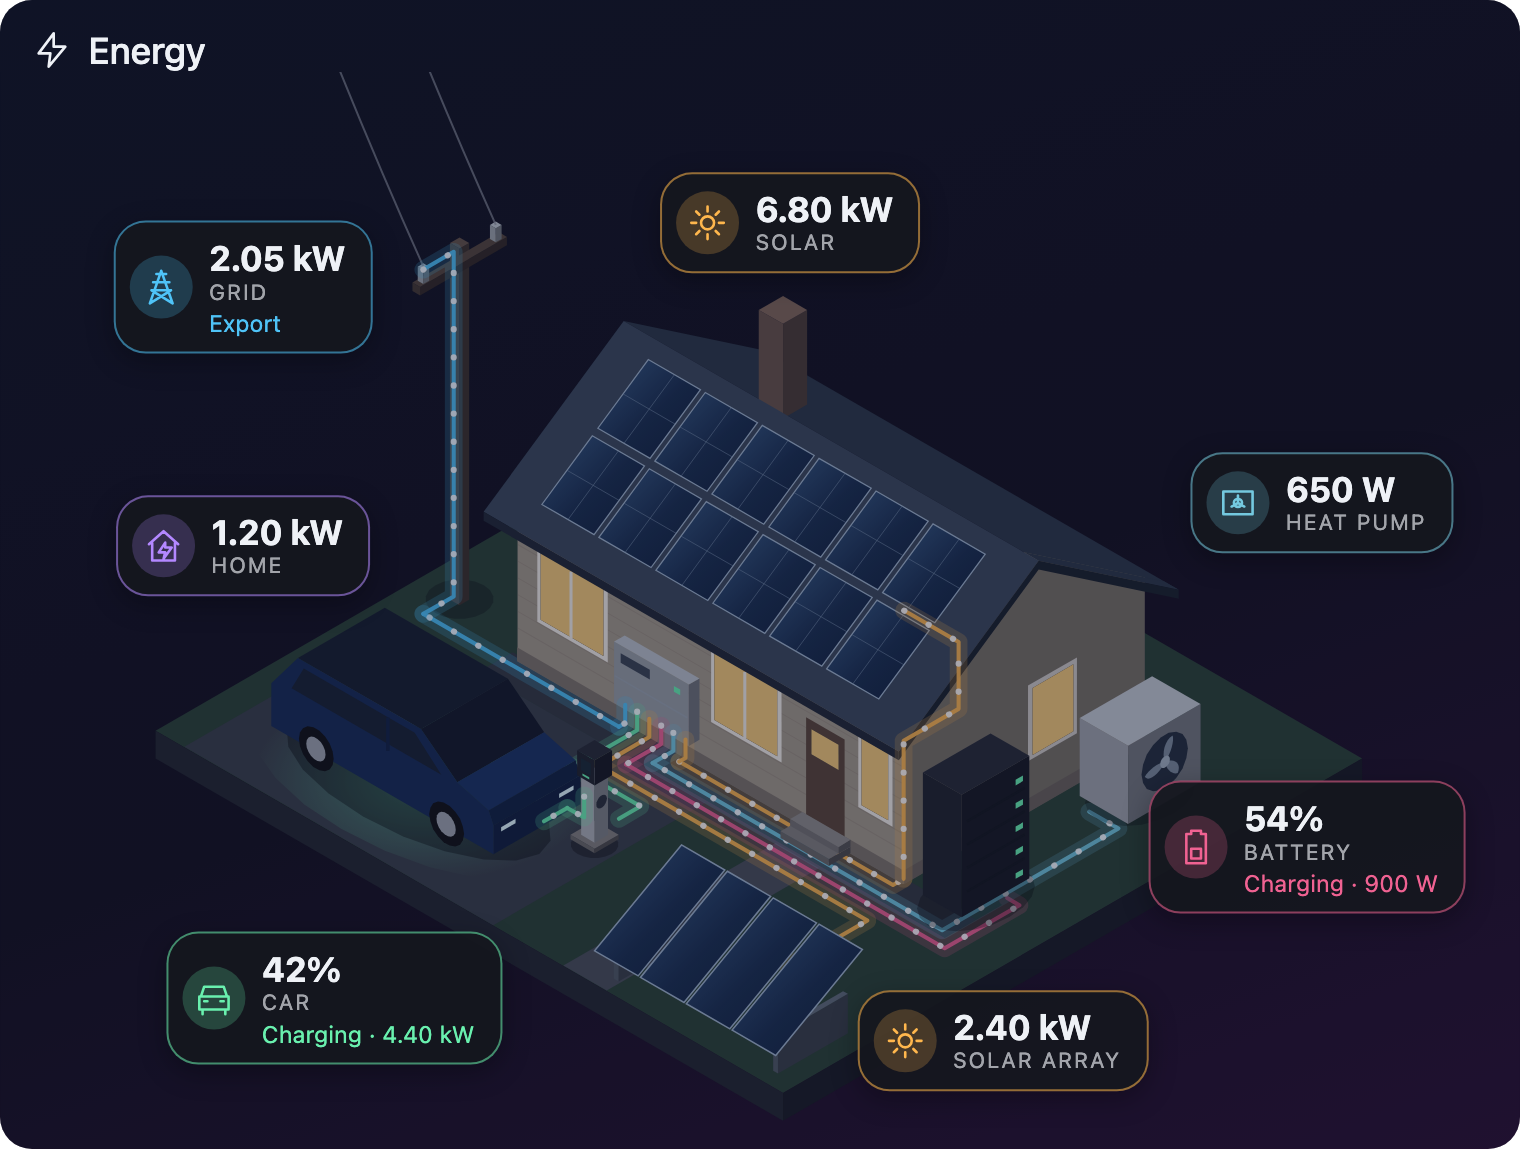
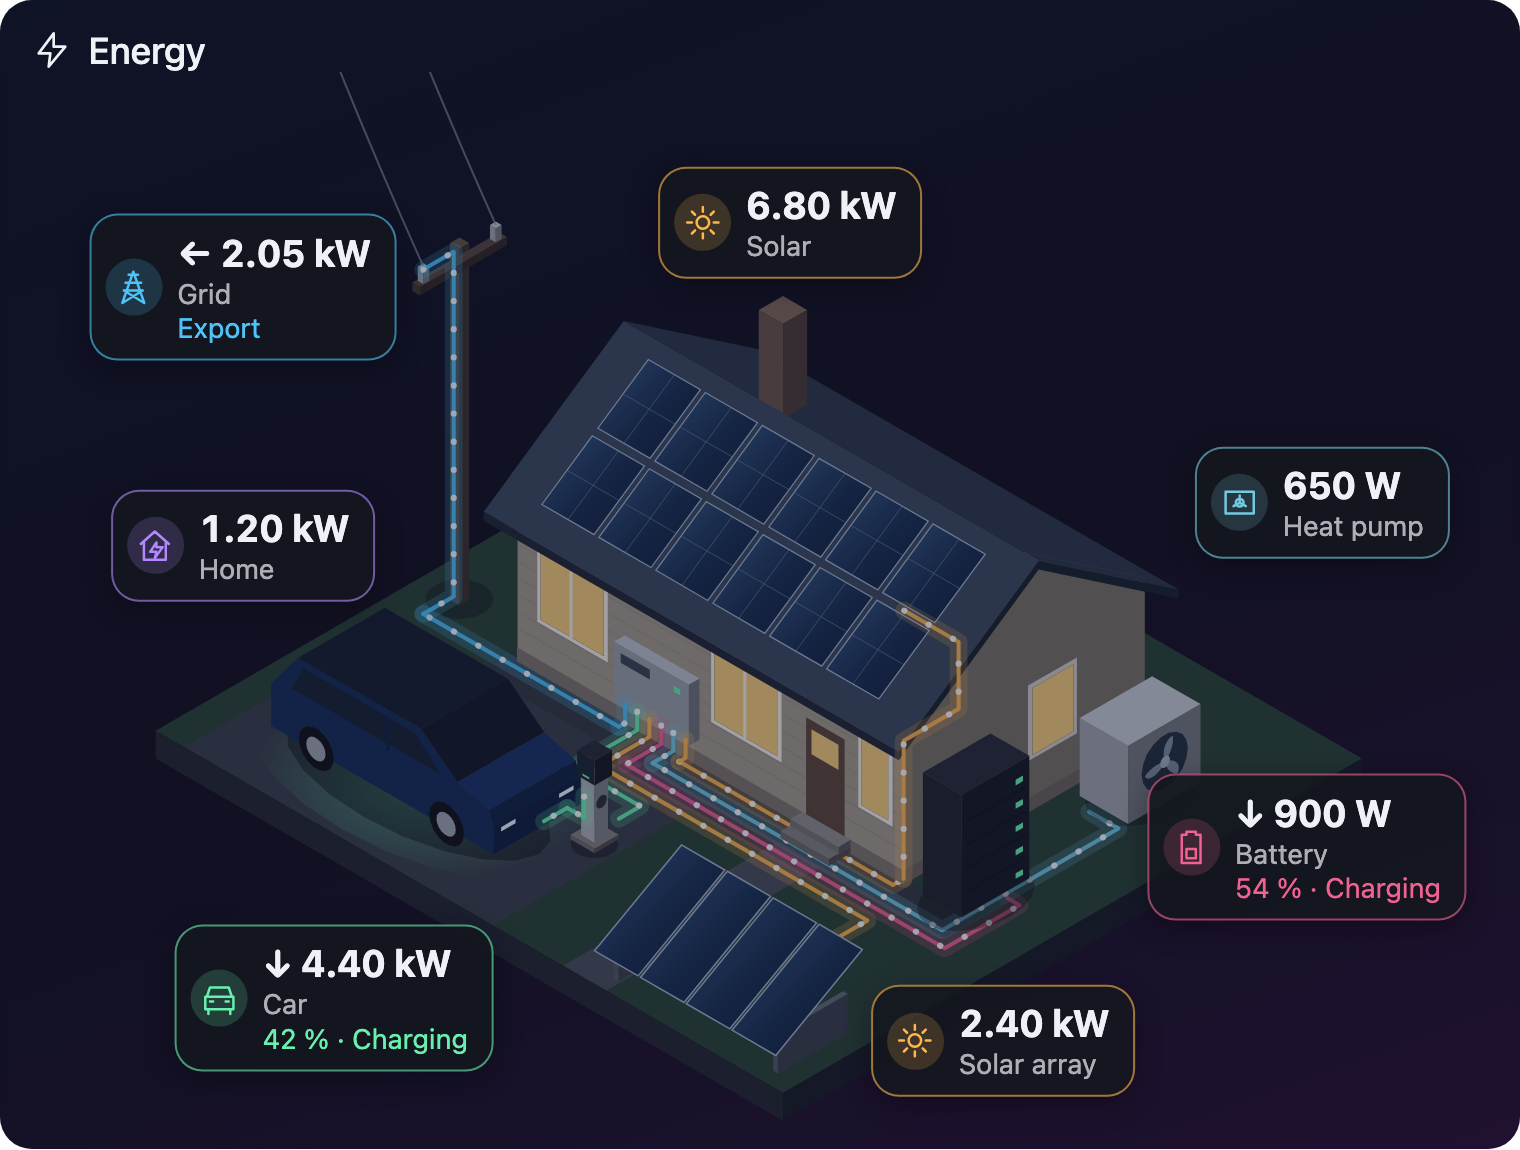
Readable badges: power first, larger text, tiles on narrow cards
- The big number is always power with a direction arrow
  (grid → import / ← export, storage ↓ charging / ↑ discharging);
  battery and car levels move to the second line
- Minimum text sizes (values ≥ 15 px, labels ≥ 11 px), no tiny all-caps labels
- Cards narrower than 500 px show the readings as tiles below the picture
- Lighter badges: coloured border only while active, no pulsing ring
- Version 0.1.0-beta.2

diff --git a/energy-house-card.js b/energy-house-card.js
@@ -4,7 +4,7 @@
  * The scene is rendered once per configuration; sensor updates only touch text, classes and attributes.
  */
 (() => {
-const VERSION = "0.1.0-beta";
+const VERSION = "0.1.0-beta.2";
 const escapeHTML = (value) => String(value).replace(/[&<>"']/g, (c) => ({
   "&": "&amp;", "<": "&lt;", ">": "&gt;", '"': "&quot;", "'": "&#39;",
 })[c]);
@@ -292,18 +292,23 @@ for (const cable of CABLES) {
   });
 }
 
-// Badges: fixed positions in % of the stage (left, top).
+// Badges: fixed positions in % of the picture (left, top) on wide cards; on narrow cards they
+// form a row of tiles below the picture in this order (sources first, then consumers).
 const BADGES = [
-  { id: "grid", label: "Grid", icon: "mdi:transmission-tower", color: COLORS.grid, pos: [16, 20], power: "grid" },
   { id: "solar", label: "Solar", icon: "mdi:solar-power-variant", color: COLORS.solar, pos: [52, 14], power: "solar" },
+  { id: "solar_ground", label: "Solar array", icon: "mdi:solar-power-variant", color: COLORS.solar, pos: [66, 90], power: "solar_ground" },
+  { id: "grid", label: "Grid", icon: "mdi:transmission-tower", color: COLORS.grid, pos: [16, 20], power: "grid" },
+  { id: "battery", label: "Battery", icon: "mdi:battery", color: COLORS.battery, pos: [86, 72], power: "battery_power", soc: "battery_soc" },
   { id: "home", label: "Home", icon: "mdi:home-lightning-bolt", color: COLORS.home, pos: [16, 44], power: "home" },
   { id: "heat_pump", label: "Heat pump", icon: "mdi:heat-pump", color: COLORS.heat_pump, pos: [87, 40], power: "heat_pump" },
-  { id: "battery", label: "Battery", icon: "mdi:battery", color: COLORS.battery, pos: [86, 72], power: "battery_power", soc: "battery_soc" },
   { id: "car", label: "Car", icon: "mdi:car-electric", color: COLORS.car, pos: [22, 86], power: "car_power", soc: "car_soc" },
-  { id: "solar_ground", label: "Solar array", icon: "mdi:solar-power-variant", color: COLORS.solar, pos: [66, 90], power: "solar_ground" },
 ];
+// Direction words and arrows for positive / negative readings (same arrows as Home Assistant's
+// energy card: grid → import ← export; storage ↓ in ↑ out).
 const STATUS = {
-  grid: ["Import", "Export"], battery: ["Discharging", "Charging"], car: ["Charging", "Discharging"],
+  grid: ["Import", "Export", "→", "←"],
+  battery: ["Discharging", "Charging", "↑", "↓"],
+  car: ["Charging", "Discharging", "↓", "↑"],
 };
 
 const POWER_KEYS = ["grid", "solar", "solar_ground", "home", "battery_power", "car_power", "heat_pump"];
@@ -318,7 +323,9 @@ ha-card.night { --ehc-bg: linear-gradient(160deg,#121521 0%,#15111d 55%,#2b1230 
 ha-card.themed { --ehc-bg: var(--ha-card-background, var(--card-background-color)); color: var(--primary-text-color); }
 .hdr { display:flex; align-items:center; gap:8px; padding:14px 16px 0; font-size:1.15em; font-weight:500; position:relative; z-index:2; }
 .hdr ha-icon { --mdc-icon-size:20px; }
-.stage { position:relative; width:100%; aspect-ratio:${VB_W}/${VB_H}; container-type:inline-size; }
+ha-card { container: ehc / inline-size; }
+.wrap { position:relative; }
+.stage { position:relative; width:100%; aspect-ratio:${VB_W}/${VB_H}; }
 .stage > svg { position:absolute; inset:0; width:100%; height:100%; display:block; }
 .win-lit { opacity:var(--lit,.3); transition:opacity 2s; }
 .night-ov { fill:#0b1030; opacity:0; transition:opacity 2s; pointer-events:none; }
@@ -341,25 +348,33 @@ ha-card.night .hdr { background:rgba(11,16,48,.35); }
 .active .fan { animation:ehc-spin 1.1s linear infinite; }
 .pv-glint { opacity:0; pointer-events:none; }
 .solar-on .pv-glint { animation:ehc-glint 5s ease-in-out infinite; }
-.badge.on .ic { animation:ehc-ring 2.8s ease-out infinite; }
 @keyframes ehc-blink { 50% { opacity:.45; } }
 @keyframes ehc-breathe { 0%,100% { opacity:.55; } 50% { opacity:.22; } }
 @keyframes ehc-soc { 50% { opacity:.7; } }
 @keyframes ehc-spin { to { transform:rotate(360deg); } }
 @keyframes ehc-glint { 0%,62%,100% { opacity:0; } 72% { opacity:.16; } }
-@keyframes ehc-ring { 0% { box-shadow:0 0 0 0 color-mix(in srgb, var(--c) 45%, transparent); } 70%,100% { box-shadow:0 0 0 .45em transparent; } }
-.badge { position:absolute; transform:translate(-50%,-50%); display:flex; align-items:center; gap:.55em; padding:.5em .85em .5em .45em; max-width:29%; box-sizing:border-box;
-  border-radius:16px; background:rgba(20,22,30,.94); border:1px solid rgba(255,255,255,.12); cursor:pointer;
-  width:max-content; font-size:clamp(8px,2.15cqw,15px); line-height:1.2; box-shadow:0 4px 14px rgba(0,0,0,.3); color:#eef1f6; }
+.badges { position:absolute; inset:0 0 auto; aspect-ratio:${VB_W}/${VB_H}; pointer-events:none; }
+.badge { position:absolute; transform:translate(-50%,-50%); display:flex; align-items:center; gap:.5em; padding:.45em .8em .45em .45em; max-width:30%; box-sizing:border-box;
+  border-radius:14px; background:rgba(20,22,30,.9); border:1px solid rgba(255,255,255,.06); cursor:pointer; pointer-events:auto;
+  width:max-content; font-size:clamp(12px,2.1cqw,15px); line-height:1.25; box-shadow:0 4px 14px rgba(0,0,0,.3); color:#eef1f6; transition:border-color .6s; }
 .badge:focus-visible { outline:2px solid var(--c); outline-offset:2px; }
-.badge.on { border-color: color-mix(in srgb, var(--c) 55%, transparent); }
-.badge .ic { flex-shrink:0; width:2.1em; height:2.1em; border-radius:50%; display:grid; place-items:center; background:color-mix(in srgb, var(--c) 22%, transparent); color:var(--c); }
-.badge .ic ha-icon { --mdc-icon-size:1.3em; }
-.badge .v { font-weight:700; font-size:1.15em; white-space:nowrap; }
+.badge.on { border-color: color-mix(in srgb, var(--c) 60%, transparent); }
+.badge .ic { flex-shrink:0; width:1.9em; height:1.9em; border-radius:50%; display:grid; place-items:center; background:color-mix(in srgb, var(--c) 18%, transparent); color:var(--c); }
+.badge .ic ha-icon { --mdc-icon-size:1.25em; }
 .badge .copy { min-width:0; }
-.badge .l { font-size:.72em; letter-spacing:.08em; text-transform:uppercase; opacity:.65; white-space:nowrap; overflow:hidden; text-overflow:ellipsis; }
-.badge .s { font-size:.78em; color:var(--c); margin-top:.15em; }
+.badge .v { font-weight:700; font-size:1.25em; white-space:nowrap; font-variant-numeric:tabular-nums; }
+.badge .l { font-size:.92em; opacity:.7; white-space:nowrap; overflow:hidden; text-overflow:ellipsis; }
+.badge .s { font-size:.92em; color:var(--c); white-space:nowrap; overflow:hidden; text-overflow:ellipsis; }
 .badge .s:empty { display:none; }
+/* Narrow cards: the picture stays an illustration, the numbers move into readable tiles below it. */
+@container ehc (max-width: 500px) {
+  .badges { position:static; aspect-ratio:auto; display:grid; grid-template-columns:repeat(auto-fill, minmax(118px, 1fr)); gap:6px; padding:2px 12px 12px; }
+  .badge { position:static; transform:none; max-width:none; width:auto; font-size:13px; box-shadow:none; background:rgba(255,255,255,.04); border-radius:12px; padding:.5em .7em; align-items:flex-start; }
+  .badge .ic { width:auto; height:auto; background:none; margin-top:.15em; }
+  .badge .ic ha-icon { --mdc-icon-size:18px; }
+  .badge .v { font-size:1.2em; }
+  .badge .l { font-size:.85em; }
+}
 .drops { position:absolute; inset:0; pointer-events:none; overflow:hidden; display:none; }
 ha-card.rain .drops { display:block; }
 .drops i { position:absolute; top:-10%; width:1px; height:5%; background:linear-gradient(transparent, rgba(200,210,255,.45)); animation:ehc-rain linear infinite; }
@@ -560,13 +575,13 @@ class EnergyHouseCard extends HTMLElement {
     this.shadowRoot.innerHTML = `<style>${STYLE}</style>
       <ha-card class="${c.theme_background ? "themed" : ""} ${c.animate ? "" : "still"} ${this._visible === false ? "paused" : ""}">
         ${c.title ? `<div class="hdr"><ha-icon icon="mdi:lightning-bolt"></ha-icon><span>${escapeHTML(c.title)}</span></div>` : ""}
-        <div class="stage">
+        <div class="wrap"><div class="stage">
           <svg viewBox="0 0 ${VB_W} ${VB_H}" aria-hidden="true">
             <defs><linearGradient id="ehc-panel" x1="0" y1="0" x2="1" y2="1"><stop offset="0" stop-color="#3a5d86"/><stop offset=".55" stop-color="#1b2f4d"/><stop offset="1" stop-color="#11203a"/></linearGradient><radialGradient id="ehc-charge"><stop offset="0" stop-color="#69f0ae" stop-opacity=".85"/><stop offset=".55" stop-color="#69f0ae" stop-opacity=".35"/><stop offset="1" stop-color="#69f0ae" stop-opacity="0"/></radialGradient></defs>
             <g class="scene">${ART.ground()}${runsOver("ground")}${equipment}</g>
             <rect class="night-ov" width="${VB_W}" height="${VB_H}"/>
-          </svg>${drops}${badges}
-        </div>
+          </svg>${drops}
+        </div><div class="badges">${badges}</div></div>
       </ha-card>`;
     this._card = this.shadowRoot.querySelector("ha-card");
     const open = (event) => {
@@ -595,11 +610,14 @@ class EnergyHouseCard extends HTMLElement {
     const el = this.shadowRoot.getElementById(`b-${b.id}`);
     if (!el) return;
     const active = power != null && Math.abs(power) > this._cfg.threshold;
-    const [positive, negative] = STATUS[b.id] || [];
+    const [positive, negative, up, down] = STATUS[b.id] || [];
     const status = power == null ? (this._has(b.power) ? "Unavailable" : "") :
       !active ? (positive ? "Idle" : "") : positive ? (power > 0 ? positive : negative) : "";
-    const value = soc != null ? `${Math.round(soc)}%` : power != null ? this._fmtW(power) : "—";
-    const detail = [status, soc != null && active ? this._fmtW(power) : ""].filter(Boolean).join(" · ");
+    const level = soc == null ? "" : `${Math.round(soc)} %`;
+    // The big number is always power (with a direction arrow); the level is secondary.
+    const arrow = active && up ? `${power > 0 ? up : down} ` : "";
+    const value = power != null ? arrow + this._fmtW(power) : level || "—";
+    const detail = [power != null ? level : "", status].filter(Boolean).join(" · ");
     el.classList.toggle("on", active);
     el.querySelector(".v").textContent = value;
     el.querySelector(".s").textContent = detail;

diff --git a/dev/preview-tests.js b/dev/preview-tests.js
@@ -33,24 +33,24 @@ window.addEventListener("DOMContentLoaded", async () => {
   test("Power units and SOC", () => {
     const card = fixture();
     assert(value(card, "solar") === "6.80 kW", "Solar units");
-    assert(value(card, "car") === "42%", "Vehicle SOC");
-    assert(status(card, "car") === "Charging · 4.40 kW", "kW conversion");
-    assert(value(card, "battery") === "54%", "Battery SOC");
+    assert(value(card, "car") === "↓ 4.40 kW" && status(card, "car") === "42 % · Charging", "kW conversion, car level");
+    assert(value(card, "battery") === "↓ 900 W" && status(card, "battery") === "54 % · Charging", "Power first, level second");
+    assert(value(card, "grid") === "← 300 W", "Export arrow");
   });
   test("Import, export, charging, discharge directions", () => {
     const card = fixture();
     assert(status(card, "grid") === "Export" && flow(card, "grid").contains("rev"), "Export direction");
-    assert(status(card, "battery").startsWith("Charging") && flow(card, "battery").contains("on") && !flow(card, "battery").contains("rev"), "Battery charging flows house -> battery");
+    assert(status(card, "battery").endsWith("Charging") && flow(card, "battery").contains("on") && !flow(card, "battery").contains("rev"), "Battery charging flows house -> battery");
     assert(flow(card, "car").contains("on") && !flow(card, "car").contains("rev"), "Car charging direction");
     card.hass = mockHass({ "sensor.demo_grid": mockState(100), "sensor.demo_battery_power": mockState(500), "sensor.demo_car_power": mockState(-2, "kW") });
-    assert(status(card, "grid") === "Import" && !flow(card, "grid").contains("rev"), "Import direction");
-    assert(status(card, "battery").startsWith("Discharging") && flow(card, "battery").contains("rev"), "Battery discharge direction");
-    assert(status(card, "car").startsWith("Discharging") && flow(card, "car").contains("rev"), "Vehicle discharge direction");
+    assert(status(card, "grid") === "Import" && value(card, "grid") === "→ 100 W" && !flow(card, "grid").contains("rev"), "Import direction");
+    assert(status(card, "battery").endsWith("Discharging") && value(card, "battery") === "↑ 500 W" && flow(card, "battery").contains("rev"), "Battery discharge direction");
+    assert(status(card, "car").endsWith("Discharging") && value(card, "car") === "↑ 2.00 kW" && flow(card, "car").contains("rev"), "Vehicle discharge direction");
   });
   test("Configured inversion and exact threshold", () => {
     const card = fixture({ ...mockConfig, invert: { grid: true, battery_power: true } });
     assert(status(card, "grid") === "Import", "Grid inversion");
-    assert(status(card, "battery").startsWith("Discharging"), "Battery inversion");
+    assert(status(card, "battery").endsWith("Discharging"), "Battery inversion");
     card.hass = mockHass({ "sensor.demo_grid": mockState(-10) });
     assert(!flow(card, "grid").contains("on"), "10 W must be inactive");
     card.hass = mockHass({ "sensor.demo_grid": mockState(-10.01) });
@@ -82,7 +82,7 @@ window.addEventListener("DOMContentLoaded", async () => {
     const entities = { ...mockConfig.entities };
     delete entities.battery_power;
     const card = fixture({ ...mockConfig, entities });
-    assert(status(card, "battery") === "" && value(card, "battery") === "54%", "Unknown activity");
+    assert(status(card, "battery") === "" && value(card, "battery") === "54 %", "Level only, no invented activity");
     assert(!card.shadowRoot.querySelector('[data-cable="battery"]'), "No cable without a power sensor");
     assert(eq(card, "battery"), "Battery still drawn");
   });
@@ -103,7 +103,7 @@ window.addEventListener("DOMContentLoaded", async () => {
     card.setConfig({ ...mockConfig, animate: false, night: true });
     assert(card.shadowRoot.querySelector("ha-card").classList.contains("still"), "Animations disabled");
     assert(card.shadowRoot.querySelector("ha-card").classList.contains("night"), "Night override");
-    assert(value(card, "car") === "42%", "New config applied without next HA update");
+    assert(status(card, "car").startsWith("42 %"), "New config applied without next HA update");
   });
   test("Invalid configurations rejected explicitly", () => {
     for (const config of [
@@ -188,7 +188,7 @@ window.addEventListener("DOMContentLoaded", async () => {
         card.setConfig(buildPlaygroundConfig(o));
         card.hass = buildPlaygroundHass(o);
         assertStraight(card, name);
-        for (const width of ["320px", "720px"]) {
+        for (const width of ["320px", "520px", "720px"]) {
           card.style.width = width;
           const bounds = card.getBoundingClientRect();
           const badges = [...card.shadowRoot.querySelectorAll(".badge")].map((b) => [b.id, b.getBoundingClientRect()]);
@@ -200,6 +200,27 @@ window.addEventListener("DOMContentLoaded", async () => {
       }
     } finally { host.remove(); }
     assert(combos === 144, `Only ${combos} combinations checked`);
+  });
+  test("Narrow cards show readable tiles below the picture; wide cards overlay the picture", () => {
+    const card = fixture();
+    document.body.append(card);
+    try {
+      const svg = () => card.shadowRoot.querySelector(".stage").getBoundingClientRect();
+      const badges = () => [...card.shadowRoot.querySelectorAll(".badge")];
+      const px = (el, sel) => parseFloat(getComputedStyle(el.querySelector(sel)).fontSize);
+      card.style.width = "445px";
+      assert(badges().every((b) => b.getBoundingClientRect().top >= svg().bottom - 0.5), "Tiles must sit below the picture");
+      assert(badges().map((b) => b.id).join() === "b-solar,b-grid,b-battery,b-home,b-car", "Sources first");
+      for (const width of ["445px", "520px", "760px"]) {
+        card.style.width = width;
+        for (const b of badges()) {
+          assert(px(b, ".v") >= 14.5, `${width} ${b.id}: value ${px(b, ".v")}px`);
+          assert(px(b, ".l") >= 11 && px(b, ".s") >= 11, `${width} ${b.id}: label ${px(b, ".l")}px`);
+        }
+      }
+      card.style.width = "760px";
+      assert(badges().some((b) => b.getBoundingClientRect().top < svg().bottom), "Wide cards overlay the picture");
+    } finally { card.remove(); }
   });
   test("Cables are layered against the equipment they pass", () => {
     const o = { ...PLAYGROUND_DEFAULTS, solar: "both" };

diff --git a/dev/screenshot.html b/dev/screenshot.html
@@ -1,6 +1,6 @@
 <!doctype html><html><head><meta charset="utf-8"><style>
 html,body{margin:0;background:transparent;font-family:system-ui,-apple-system,"Segoe UI",Roboto,sans-serif}
-energy-house-card{display:block;width:760px;margin:0}
+energy-house-card{display:block;margin:0}
 </style></head><body>
 <energy-house-card id="c"></energy-house-card>
 <script src="preview.js"></script>
@@ -9,6 +9,8 @@ energy-house-card{display:block;width:760px;margin:0}
 const q = new URLSearchParams(location.search);
 const o = { ...PLAYGROUND_DEFAULTS, solar: q.get("solar") || "both", heatPump: q.get("pump") !== "false", time: q.get("time") || "day", car: q.get("car") || "sedan", battery: q.get("battery") || "wall", carColor: q.get("color") || "#ecebe6" };
 const card = document.getElementById("c");
+card.style.width = (q.get("w") || 760) + "px";
 card.setConfig({ ...buildPlaygroundConfig(o), animate: false });
 card.hass = buildPlaygroundHass(o);
+document.title = Math.ceil(card.getBoundingClientRect().height);
 </script></body></html>

diff --git a/README.md b/README.md
@@ -15,7 +15,7 @@ Solar, grid, battery, heat pump and EV — with animated power flowing through e
 </div>
 
 > [!NOTE]
-> **Beta (0.1.0-beta).** Options may still change before 1.0. Feedback and issues are very welcome.
+> **Beta (0.1.0-beta.2).** Options may still change before 1.0. Feedback and issues are very welcome.
 
 ## ✨ Features
 
@@ -23,6 +23,8 @@ Solar, grid, battery, heat pump and EV — with animated power flowing through e
 - 🔆 **Everything a modern home has:** rooftop and ground-mounted solar, grid, home battery, heat pump, EV with charger.
 - 🌊 **Live energy flows.** Dots run along each cable in the direction of the power, faster as it increases.
 - 🌙 **Day & night.** Windows light up after sunset (from `sun.sun`); optional rain and snow from your weather entity.
+- 🔢 **Easy to read.** The big number is always power, with an arrow for its direction (→ import, ↓ charging); battery and car levels sit underneath.
+- 📱 **Fits any column.** On narrow cards the numbers move into tiles below the picture instead of shrinking.
 - 🎛 **Visual editor** built in, plus a card picker that pre-selects your sensors.
 - 👆 **Tap any badge** to open the sensor's more-info dialog.
 - 🪶 **One small JavaScript file**, no libraries. Animations are pure CSS, pause off-screen and respect *reduced motion*.
@@ -30,11 +32,11 @@ Solar, grid, battery, heat pump and EV — with animated power flowing through e
 <table>
   <tr>
     <td width="50%"><img src="https://raw.githubusercontent.com/Fexiven/homeassistant-energy-house-card/main/docs/preview-night.png" alt="Night scene with lit windows, an SUV and a rack battery"></td>
-    <td width="50%"><img src="https://raw.githubusercontent.com/Fexiven/homeassistant-energy-house-card/main/docs/preview-minimal.png" alt="Minimal setup with only roof solar and grid"></td>
+    <td width="50%"><img src="https://raw.githubusercontent.com/Fexiven/homeassistant-energy-house-card/main/docs/preview-compact.png" alt="Narrow card with the readings as tiles below the picture"></td>
   </tr>
   <tr>
     <td align="center"><sub>At night — SUV, rack battery, custom car color</sub></td>
-    <td align="center"><sub>Minimal setup — just solar, grid and home</sub></td>
+    <td align="center"><sub>Narrow column — readings move into tiles</sub></td>
   </tr>
 </table>
 
@@ -54,7 +56,7 @@ While in beta, enable **Show beta versions** for the repository in HACS.
 1. Download `energy-house-card.js` from the
    [latest release](https://github.com/Fexiven/homeassistant-energy-house-card/releases) into `/config/www/`.
 2. **Settings → Dashboards → ⋮ → Resources → Add resource**:
-   `/local/energy-house-card.js?v=0.1.0-beta`, type **JavaScript module**.
+   `/local/energy-house-card.js?v=0.1.0-beta.2`, type **JavaScript module**.
 3. Reload the browser.
 
 ## 🚀 Quick start
@@ -165,13 +167,13 @@ python3 -m http.server 8766 --bind 127.0.0.1
 | `/dev/preview.html` | Interactive playground with equipment toggles and sliders |
 | `/dev/preview.html?test` | Runs the browser test suite |
 | `/dev/preview.html?set=solar:both,time:night` | Preselects playground controls |
-| `/dev/screenshot.html?time=night&car=suv` | Bare card at 760 px, used for the README images |
+| `/dev/screenshot.html?time=night&car=suv&w=445` | Bare card (default 760 px wide), used for the README images |
 
 README images are taken with a headless Chromium browser, for example:
 
 ```sh
 msedge --headless=new --hide-scrollbars --default-background-color=00000000 \
-  --force-device-scale-factor=2 --window-size=760,582 \
+  --force-device-scale-factor=2 --window-size=760,575 \
   --screenshot=docs/preview.png "http://127.0.0.1:8766/dev/screenshot.html"
 ```
 
